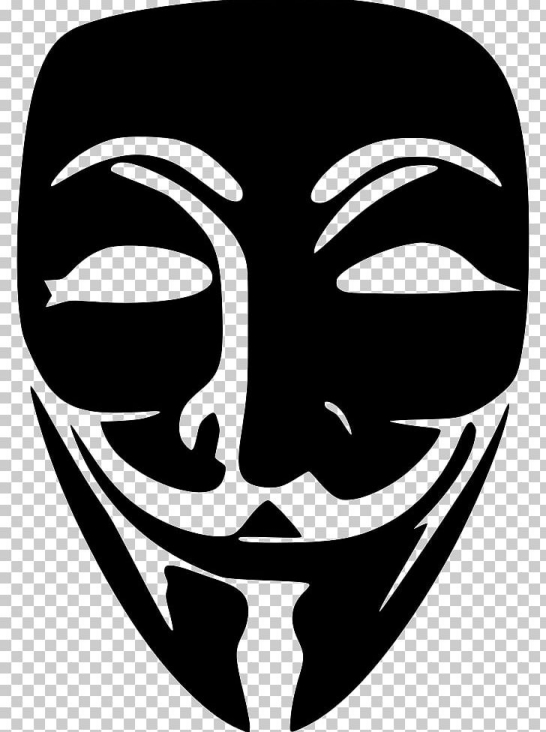
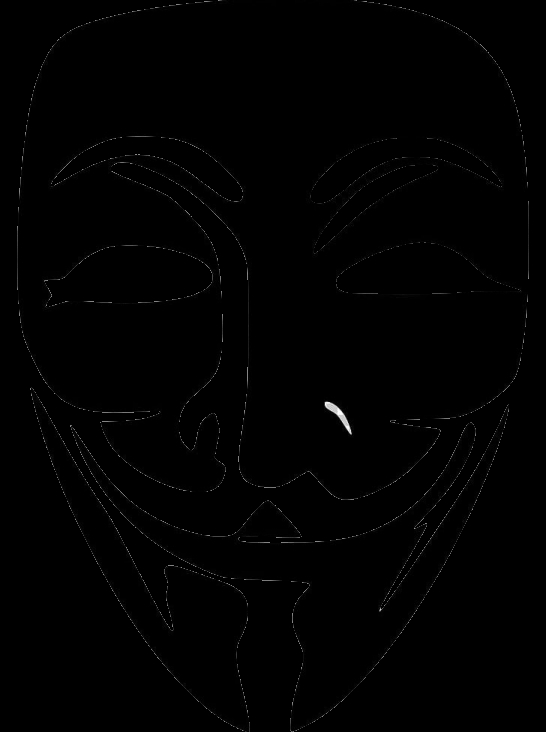
Improved point calculation algorighm speed 5000x

diff --git a/src/image.py b/src/image.py
@@ -1,7 +1,9 @@
+import numpy as np
 from PIL import Image
 import cv2
-from numpy import where
+import numpy as np
 import os
+import sys
 import math
 import pygame
 from config import config
@@ -11,100 +13,100 @@ import time
 
 class image:
     def __init__(self, filePath):
-        if not config.DRAW_LINES_OF_IMAGE:
-            try:
-                self.imgObj = Image.open(Path(filePath))
-            except:
-                print(f"ERROR: Can't open image at: {filePath}")
-                exit()
-        else:
-            # Do pre-processing if DRAW_LINES_OF_IMAGE is enabled
-            image = cv2.imread(filePath, cv2.IMREAD_GRAYSCALE)
-            if image is None:
-                print(f"ERROR: Can't open image at: {filePath}")
-                exit()
+        image = cv2.imread(filePath)
+
+        if image is None:
+            print(f"ERROR: Can't open image at: {filePath}")
+            exit()
+
+        if config.SINGLE_COLOR_SELECTION:
+            self.imgObj = image
+        # Do pre-processing if DRAW_LINES_OF_IMAGE is enabled
+        elif config.DRAW_LINES_OF_IMAGE:
+            image = cv2.cvtColor(image, cv2.COLOR_BGR2GRAY)
             lines = cv2.Canny(image, 10, 200)
-            whitePx = where(lines == 255)
+            whitePx = np.where(lines == 255)
             cnts = cv2.findContours(lines, cv2.RETR_EXTERNAL, cv2.CHAIN_APPROX_SIMPLE)
             cnts = cnts[0] if len(cnts) == 2 else cnts[1]
             for c in cnts:
                 cv2.drawContours(lines, [c], -1 , config.ISOLATE_COLOR ,thickness=config.LINE_THICKNESS)
-            if config.debug:
-                cv2.imshow("Image converted to lines",lines)
-                cv2.waitKey()
 
-            self.imgObj = Image.fromarray(lines)
+            # Convert back from graysacle([0-255]) to rgb([0-255,0-255,0-255])
+            self.imgObj = cv2.cvtColor(lines, cv2.COLOR_GRAY2RGB)
+
+            if config.debug:
+                cv2.imshow("Image converted", self.imgObj)
+                cv2.waitKey(0)
 
         self.path = filePath
-        self.imgScale = 1
         self.columnPositions = {}
-        self.readyToDraw = False
 
     def getDimensions(self):
-        return self.imgObj.size
+        y, x, _ = self.imgObj.shape
+        return x, y
 
     def getCentre(self):
-        x,y = self.getDimensions()
-        return (x/2,y/2)
+        x, y = self.getDimensions()
+        return x/2, y/2
 
     def scaleImage(self, scaleFactor):
         x, y = self.getDimensions()
-        newDimensions = (round(x*scaleFactor) , round(y*scaleFactor))
-        self.imgObj = self.imgObj.resize(newDimensions, resample=Image.LANCZOS)
+        newDimensions = (int(x*scaleFactor), int(y*scaleFactor))
+        self.imgObj = cv2.resize(self.imgObj, newDimensions, interpolation=cv2.INTER_AREA)
 
-    def isRegionThisColor(self, xStart, yStart, size, threshold, color):
-        # Get image data
-        rgb_img = self.imgObj.convert('RGB')
-        
-        # Number of occourances of colour specified
-        nOccurances = 0 
-        
-        r0,g0,b0 = color
-
-        for y in range(yStart, yStart + size):
-            for x in range(xStart, xStart + size):
-                r, g, b = rgb_img.getpixel((x,y))
-                
-                if config.debug:
-                    print(f'Pixel at : {x},{y} has color ({r},{g},{b})')
-                
-                if (r,g,b) == (r0,g0,b0):
-                    nOccurances+=1
-            
-        pOccurances = (nOccurances/math.pow(size,2))*100
-
-        if pOccurances >= threshold:
-            
-            return True
-        else:
-            return False
-    
         if config.debug:
-            print(f'Numer of occourances:{nOccurances}')
-            print(f'Percentage: {(nOccurances/math.pow(size,2))*100}%')        
+            print(f"New dimensions: {newDimensions}")
 
     def calculateAllThresholdPositions(self, threshold, size, color):
         width, length = self.getDimensions()
 
-        if config.debug:
-            print(f'Image Size: {width} x {length}')
+        # Apply mask to image
+        if config.SINGLE_COLOR_SELECTION:
+            mask = cv2.inRange(self.imgObj, color, color)
+        elif config.DRAW_LINES_OF_IMAGE:
+            mask = cv2.inRange(self.imgObj, (255,255,255), (255,255,255))
 
-        for x in range(0, width - size, size):
+        if config.debug:
+            cv2.imshow("Masked image", mask)
+            cv2.waitKey(0)
+
+        # Code provided by https://github.com/ilastik/lazyflow/blob/master/lazyflow/utility/blockwise_view.py, an absolute god send
+        # This compared to the other version is ~5000x faster
+        # Breaks image down to submatracies of sizexsize and then checks if the mask has values
+        blockshape = tuple((size, size))
+        outershape = tuple(np.array(mask.shape) // blockshape)
+        view_shape = outershape + blockshape
+
+        if config.debug:
+            print(f"block shape: {blockshape}")
+            print(f"outer shape: {outershape}")
+            print(f"View shape: {view_shape}")
+
+        # inner strides: strides within each block (same as original array)
+        intra_block_strides = mask.strides
+
+        # outer strides: strides from one block to another
+        inter_block_strides = tuple(mask.strides * np.array(blockshape))
+
+        # This is where the magic happens.
+        # Generate a view with our new strides (outer+inner).
+        subMatracies = np.lib.stride_tricks.as_strided(mask, shape=view_shape,
+                                                  strides=(inter_block_strides + intra_block_strides))
+
+        subLen, subWid, _, _ = subMatracies.shape
+
+        # Loop through all submatracies and
+        for x in range(0, subWid-1):
             yPositions = []
-            for y in range(0, length - size, size):
-                if config.debug:
-                    print(f'{x},{y} -> {x+size}, {y+size}')
-                if self.isRegionThisColor(x,y,size,threshold,color):
-                    yPositions.append(y)
-                    if config.debug:
-                        print("Met threshold!")
-                else:
-                    if config.debug:
-                        print("Didn't Meet threshold!")
-            yPositions.sort(reverse=True)
-            self.columnPositions.update({x : yPositions})
-        
-        self.readyToDraw = True
+            for y in range(0, subLen-1):
+                # Check if passes threshold occurances of color in submatrix
+                nOccerances = np.count_nonzero(subMatracies[y][x])
+                pOccuracnes = (nOccerances / math.pow(size,2))*100
+                if pOccuracnes >= config.THRESHOLD:
+                    yPositions.append(y*size)
+            if len(yPositions) > 0:
+                yPositions.sort(reverse=True)
+                self.columnPositions.update({x*size : yPositions})
 
     def translatePointsByVector(self, vector):
         if self.columnPositions != {}:
@@ -114,8 +116,6 @@ class image:
             self.columnPositions = newPoints
         else:
             print("Must calculate points to translate first")
-
-
 
     def getPositionsForColumn(self, columnPos):
         if self.columnHasPositions(columnPos):
@@ -152,7 +152,7 @@ def main():
     pygame.display.set_caption("Our sick window blud!!")
 
     # Open image and scale it
-    img = image(config.IMG_PATH)
+    img = image(sys.argv[1])
     img.scaleImage(config.IMG_SCALE)
     
     width, length = img.getDimensions()

diff --git a/src/main.py b/src/main.py
@@ -37,7 +37,8 @@ def main():
     img.calculateAllThresholdPositions(
         config.THRESHOLD, config.FONT_SIZE, config.ISOLATE_COLOR
     )
-    print(f"Time taken to calculate image points: {time.time() - startT}s")
+    if config.debug:
+        print(f"Time taken to calculate image points: {time.time() - startT}s")
 
     # Set up screen
     screen = pg.display.set_mode(
@@ -57,7 +58,11 @@ def main():
     # Must be translated by terms of font size so they can be drawn to points where the symbols should be
     vecX = round((sX - iX) / config.FONT_SIZE)
     vecY = round((sY - iY) / config.FONT_SIZE)
+
+    startT = time.time()
     img.translatePointsByVector((vecX * config.FONT_SIZE, vecY * config.FONT_SIZE))
+    if config.debug:
+        print(f"Time taken to translate image points: {time.time() - startT}s")
 
     # Set up symbol list for JUST_DISPLAY_MODE if toggled
     symbol_list = []

diff --git a/src/config.py b/src/config.py
@@ -11,14 +11,14 @@ class config:
     JUST_DISPLAY_MODE = True  # Displays all the symbols at once
 
     # Image Processing Modes
-    SINGLE_COLOR_SELECTION = False  # Selects an ISOLATE_COLOR and draws a symbol where found in a FONT_SIZE x FONT_SIZE square
-    DRAW_LINES_OF_IMAGE = True
+    SINGLE_COLOR_SELECTION = True  # Selects an ISOLATE_COLOR and draws a symbol where found in a FONT_SIZE x FONT_SIZE square
+    DRAW_LINES_OF_IMAGE = False
     LINE_THICKNESS = 2  # If DRAW_LINES_OF_IMAGE is chosen the lines of an image must be big enough to fit a FONT_SIZE x FONT_SIZE square of white pixels (change and enable debug to see difference)
 
     # Window related
     SCREEN_WIDTH = 1260
     SCREEN_HEIGHT = 800
-    FONT_SIZE = 7
+    FONT_SIZE = 10
     FPS_LIMIT = 60
 
     # Image related

diff --git a/src/symbol.py b/src/symbol.py
@@ -6,12 +6,15 @@ import time
 NOT_PLACED  = 0x00
 PLACED      = 0x01
 
+pg.init()
+
+# Create our list of characters we can render which then is made in to a list of surfaces
+katakana = [chr(int('0x30a0', 16) + i) for i in range(96)]
+font = pg.font.Font(config.FONT_PATH, config.FONT_SIZE, bold=True)
+
+
 class Symbol:
     def __init__(self, x, y, speed, color):
-        # Create our list of characters we can render which then is made in to a list of surfaces
-        katakana = [chr(int('0x30a0', 16) + i) for i in range(96)]
-        font = pg.font.Font(config.FONT_PATH, config.FONT_SIZE, bold=True)
-
         self.x, self.y = x, y
         self.speed = speed
         self.color = color
